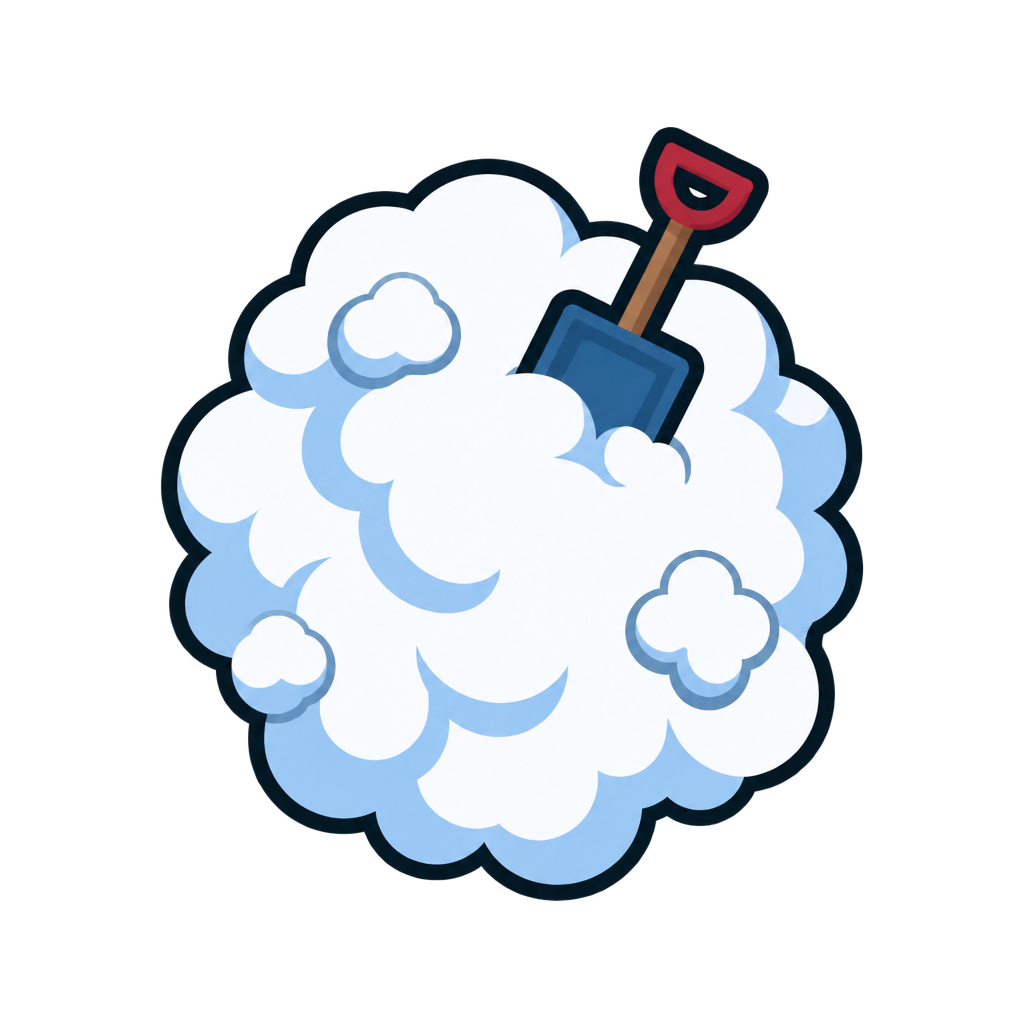
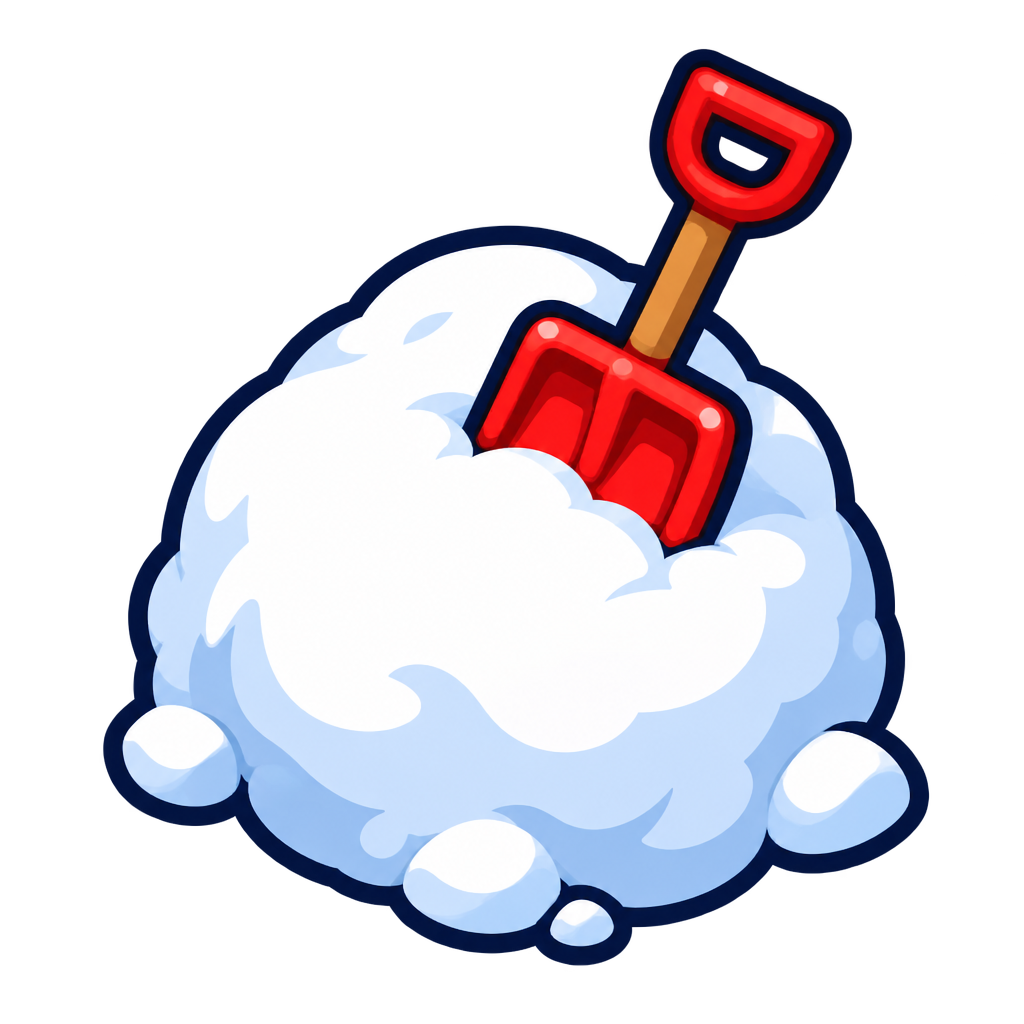
Assets regenerados: bancadas de deserto e neve, pirâmide, camelo, cone, pneus, gelo, monte e lago de neve, fundo e asfalto da cidade

diff --git a/src/engine/theme.ts b/src/engine/theme.ts
@@ -12,15 +12,14 @@ export interface Theme {
   vehicle: Category;
   curbA: number;
   curbB: number;
-  /** Tinge o tile de fundo (multiplica as cores); omitido = sem alteração. */
-  bgTint?: number;
   /** Props: chave, tamanho, quantidade, margem e se ficam junto da estrada. */
   props: { key: string; size: number; count: number; margin: number; nearRoad: boolean; spin?: boolean }[];
 }
 
-const CONES = { key: 'prop-cone', size: 18, count: 20, margin: 6, nearRoad: true };
-/** Pneus (bóias vermelhas e brancas) só fazem sentido na relva. */
-const ROAD_PROPS = [{ key: 'prop-tires', size: 28, count: 14, margin: 8, nearRoad: true }, CONES];
+const ROAD_PROPS = [
+  { key: 'prop-tires', size: 28, count: 14, margin: 8, nearRoad: true },
+  { key: 'prop-cone', size: 18, count: 20, margin: 6, nearRoad: true },
+];
 
 export const THEMES: Theme[] = [
   {
@@ -29,15 +28,15 @@ export const THEMES: Theme[] = [
   },
   {
     id: 'deserto', vehicle: 'carro', name: 'Deserto', suffix: 'desert', background: 0xe0b66a, curbA: 0xb9502f, curbB: 0xf0e4d0,
-    props: [{ key: 'prop-cactus', size: 38, count: 34, margin: 10, nearRoad: false }, { key: 'prop-rocks-desert', size: 54, count: 22, margin: 8, nearRoad: false }, { key: 'prop-tumbleweed', size: 34, count: 18, margin: 8, nearRoad: false }, { key: 'prop-d-camel', size: 50, count: 3, margin: 8, nearRoad: false, spin: true }, { key: 'prop-d-oasis', size: 90, count: 3, margin: 8, nearRoad: false }, { key: 'prop-d-pyramid', size: 70, count: 1, margin: 8, nearRoad: false }, { key: 'prop-d-tent', size: 64, count: 4, margin: 8, nearRoad: false, spin: true }, { key: 'prop-d-cactus2', size: 38, count: 8, margin: 8, nearRoad: false }, { key: 'prop-d-chest', size: 36, count: 3, margin: 8, nearRoad: false, spin: true }, { key: 'prop-d-fossil', size: 50, count: 5, margin: 8, nearRoad: false, spin: true }, { key: 'prop-d-balloon', size: 70, count: 3, margin: 8, nearRoad: false }, CONES],
+    props: [{ key: 'prop-cactus', size: 38, count: 34, margin: 10, nearRoad: false }, { key: 'prop-rocks-desert', size: 54, count: 22, margin: 8, nearRoad: false }, { key: 'prop-tumbleweed', size: 34, count: 18, margin: 8, nearRoad: false }, { key: 'prop-d-camel', size: 60, count: 5, margin: 8, nearRoad: false, spin: true }, { key: 'prop-d-oasis', size: 90, count: 3, margin: 8, nearRoad: false }, { key: 'prop-d-pyramid', size: 100, count: 2, margin: 8, nearRoad: false }, { key: 'prop-d-tent', size: 64, count: 4, margin: 8, nearRoad: false, spin: true }, { key: 'prop-d-cactus2', size: 38, count: 8, margin: 8, nearRoad: false }, { key: 'prop-d-chest', size: 36, count: 3, margin: 8, nearRoad: false, spin: true }, { key: 'prop-d-fossil', size: 50, count: 5, margin: 8, nearRoad: false, spin: true }, { key: 'prop-d-balloon', size: 70, count: 3, margin: 8, nearRoad: false }, ...ROAD_PROPS],
   },
   {
     id: 'neve', vehicle: 'carro', name: 'Neve', suffix: 'snow', background: 0xe8f2fa, curbA: 0x1f7fd6, curbB: 0xffffff,
-    props: [{ key: 'prop-pine', size: 70, count: 40, margin: 10, nearRoad: false }, { key: 'prop-snowman', size: 44, count: 10, margin: 8, nearRoad: false }, { key: 'prop-ice', size: 40, count: 8, margin: 8, nearRoad: false }, { key: 'prop-s-igloo', size: 76, count: 3, margin: 8, nearRoad: false }, { key: 'prop-s-penguins', size: 44, count: 6, margin: 8, nearRoad: false, spin: true }, { key: 'prop-s-polarbear', size: 60, count: 3, margin: 8, nearRoad: false, spin: true }, { key: 'prop-s-sled', size: 48, count: 4, margin: 8, nearRoad: false, spin: true }, { key: 'prop-s-pond', size: 80, count: 2, margin: 8, nearRoad: false }, { key: 'prop-s-pine2', size: 70, count: 12, margin: 8, nearRoad: false }, { key: 'prop-s-cabin', size: 84, count: 2, margin: 8, nearRoad: false }, { key: 'prop-s-mound', size: 50, count: 4, margin: 8, nearRoad: false, spin: true }, CONES],
+    props: [{ key: 'prop-pine', size: 70, count: 40, margin: 10, nearRoad: false }, { key: 'prop-snowman', size: 44, count: 10, margin: 8, nearRoad: false }, { key: 'prop-ice', size: 40, count: 12, margin: 8, nearRoad: false }, { key: 'prop-s-igloo', size: 76, count: 3, margin: 8, nearRoad: false }, { key: 'prop-s-penguins', size: 44, count: 6, margin: 8, nearRoad: false, spin: true }, { key: 'prop-s-polarbear', size: 60, count: 3, margin: 8, nearRoad: false, spin: true }, { key: 'prop-s-sled', size: 48, count: 4, margin: 8, nearRoad: false, spin: true }, { key: 'prop-s-pond', size: 80, count: 3, margin: 8, nearRoad: false }, { key: 'prop-s-pine2', size: 70, count: 12, margin: 8, nearRoad: false }, { key: 'prop-s-cabin', size: 84, count: 2, margin: 8, nearRoad: false }, { key: 'prop-s-mound', size: 50, count: 6, margin: 8, nearRoad: false, spin: true }, ...ROAD_PROPS],
   },
   {
-    id: 'cidade', vehicle: 'carro', name: 'Cidade', suffix: 'city', background: 0x6b7280, curbA: 0xffd100, curbB: 0x1d1d1d, bgTint: 0xb0b6c2,
-    props: [{ key: 'prop-rooftop', size: 84, count: 8, margin: 12, nearRoad: false }, { key: 'prop-rooftop2', size: 84, count: 14, margin: 12, nearRoad: false }, { key: 'prop-fountain', size: 60, count: 4, margin: 10, nearRoad: false }, { key: 'prop-c-glassroof', size: 90, count: 6, margin: 8, nearRoad: false }, { key: 'prop-c-pool', size: 80, count: 3, margin: 8, nearRoad: false }, { key: 'prop-c-helipad', size: 80, count: 2, margin: 8, nearRoad: false }, { key: 'prop-c-foodtruck', size: 64, count: 3, margin: 8, nearRoad: false, spin: true }, { key: 'prop-c-bus', size: 70, count: 3, margin: 8, nearRoad: false, spin: true }, { key: 'prop-c-taxi', size: 52, count: 4, margin: 8, nearRoad: false, spin: true }, { key: 'prop-c-billboard', size: 70, count: 4, margin: 8, nearRoad: false }, { key: 'prop-c-park', size: 90, count: 4, margin: 8, nearRoad: false }, CONES],
+    id: 'cidade', vehicle: 'carro', name: 'Cidade', suffix: 'city', background: 0x6b7280, curbA: 0xffd100, curbB: 0x1d1d1d,
+    props: [{ key: 'prop-rooftop', size: 84, count: 12, margin: 12, nearRoad: false }, { key: 'prop-rooftop2', size: 84, count: 14, margin: 12, nearRoad: false }, { key: 'prop-fountain', size: 60, count: 4, margin: 10, nearRoad: false }, { key: 'prop-c-glassroof', size: 90, count: 6, margin: 8, nearRoad: false }, { key: 'prop-c-pool', size: 80, count: 3, margin: 8, nearRoad: false }, { key: 'prop-c-helipad', size: 80, count: 2, margin: 8, nearRoad: false }, { key: 'prop-c-foodtruck', size: 64, count: 3, margin: 8, nearRoad: false, spin: true }, { key: 'prop-c-bus', size: 70, count: 3, margin: 8, nearRoad: false, spin: true }, { key: 'prop-c-taxi', size: 52, count: 4, margin: 8, nearRoad: false, spin: true }, { key: 'prop-c-billboard', size: 70, count: 4, margin: 8, nearRoad: false }, { key: 'prop-c-park', size: 90, count: 4, margin: 8, nearRoad: false }, ...ROAD_PROPS],
   },
   {
     id: 'agua', vehicle: 'barco', name: 'Água', suffix: 'water', background: 0x1f78b4, curbA: 0xff6a2b, curbB: 0xffffff,

diff --git a/src/render/raceView.ts b/src/render/raceView.ts
@@ -109,7 +109,6 @@ export class RaceView {
     if (grass) {
       this.bg = new TilingSprite({ texture: grass, width: 100, height: 100 });
       this.bg.tileScale.set(0.45);
-      if (this.theme.bgTint !== undefined) this.bg.tint = this.theme.bgTint;
       this.world.addChild(this.bg);
     }
     this.world.addChild(this.chunkLayer, this.particles.under, this.carLayer, this.particles.over);

diff --git a/assets/README.md b/assets/README.md
@@ -27,6 +27,7 @@ Gerados com Higgsfield (`gpt_image_2_5`, `background: transparent`), a 2026-11-0
 - Piloto tema água (lote 8): barcos 256×128 virados para +x, um por modelo e uma cor: `boat-lancha` (vermelha), `boat-mota` (mota de água amarela), `boat-veleiro` (turquesa), `boat-dragao` (barco-dragão verde); `bg-water` (mar, tile 512), `track-asphalt-water` (canal, tile 512), `track-curb-water` (fila de boias, 512 de largura). Tiles ainda não testados 2×2. Resto do tema água: props `prop-w-` island, lighthouse, dolphin, whale, turtle, dock, rocks, cargo (256 máx.; golfinho, baleia, tartaruga e cargueiro com a cabeça/proa para +x), `fx-wake` e `fx-splash` (apontam para -x, anchor [1,0.5] na popa), `menu-title-water` (JPEG 1920×1086, ampliado de 1344×752). Total do tema ~5,25 créditos. O barco-dragão é para experimentar: os remadores não se mexem, decidir se fica.
 - Tema doces (lote 9): `bg-candy` (refeito: 1ª versão com ondas e costura, rejeitada em `source/bg-candy-waves-rejected.png`), `track-asphalt-candy` (refeito: a 1ª versão trazia estrada e doces desenhados), `track-curb-candy` (bengalas), props `prop-ca-` cupcake, lollipop, donut, icecream, cake, gummies, gingerbread, cottoncandy (256 máx.) e `menu-title-candy` (JPEG 1920×1086, ampliado de 1344×752). 16 imagens, ~4,8 créditos.
 - Tema Espaço (lote 9): 7 naves 256×128 vistas de cima, proa para +x, uma cor cada: `ship-cacador` (vermelho), `ship-disco` (amarelo), `ship-foguetao` (azul-petróleo), `ship-bolha` (roxo), `ship-delta` (verde), `ship-vaivem` (rosa), `ship-crescente` (azul); `bg-space`, `track-asphalt-space` (tiles 512, testados 2×2; o 1.º asfalto saiu estrada sinuosa e foi rejeitado), `track-curb-space` (balizas de néon, 512 de largura); props `prop-sp-` planet, asteroid, satellite, station, ufo, astronaut, comet, moon (256 máx.; astronauta e cometa com a cabeça para +x); `fx-trail-space` (aponta para -x, anchor [1,0.5]); `menu-title-space.jpg` (1920×1086, ampliado de 1344×752). O modelo devolve um xadrez falso em vez de transparência: o script faz flood-fill a partir das margens (claro e pouco saturado) antes de recortar. ~5,5 créditos.
+- Lote 10 (2026-11-05, `gpt_image_2_5` medium, ~11 imagens, ~3 créditos): `prop-grandstand-desert|snow` (384 de largura; a cidade reutiliza a da relva), refeitos `prop-d-pyramid`, `prop-d-camel` (agora legíveis), `prop-cone`, `prop-tires` (pneus pretos, vista de cima), `prop-ice`, `prop-s-mound`, `prop-s-pond` (contorno azul-marinho mais forte), `bg-city` (calçada mais escura e menos contrastada), `track-asphalt-city` (sem manchas quadradas). O jogo usa `prop-grandstand-<sufixo>` se existir, senão `prop-grandstand`.
 - UI: `ui-logo`, `ui-trophy`, `ui-medal-gold/silver/bronze`, `ui-flame`, `ui-podium`.
 
 - Lote 5 carros por modelo (15, 256×128, cores originais com riscas de corrida, sem número, nariz para +x): `car-coupe-red|yellow|teal`, `car-rally-blue|orange|white`, `car-pickup-green|red|purple`, `car-van-yellow|pink|blue`, `car-kart-orange|green|purple`. Gerados com `gpt_image_2_5` a partir de `cartype-*` como referência; originais em `source/car-<modelo>-<cor>.png`. O jogo usa estes (e os `car-*` clássicos), já não usa `cartype-*` com tint.
